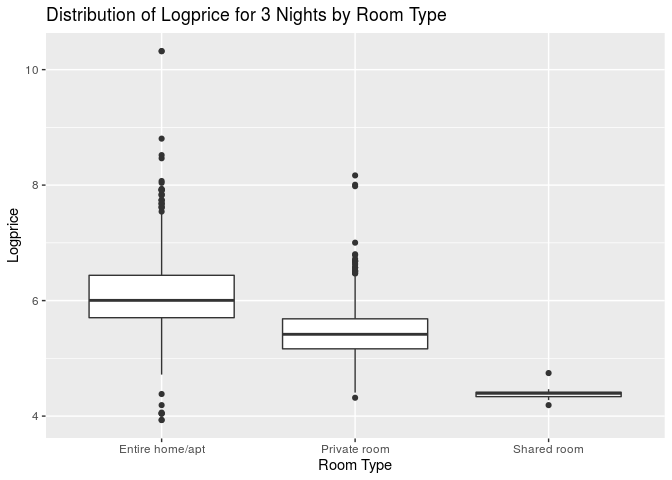
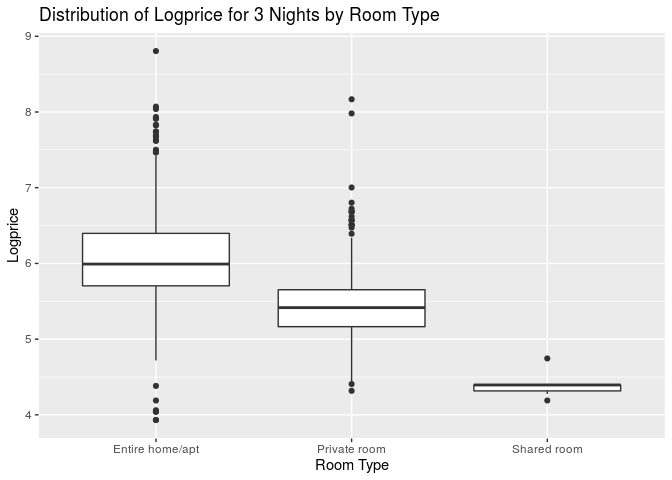
Done with hw 4

diff --git a/hw-04-diagnostics.md b/hw-04-diagnostics.md
@@ -18,6 +18,7 @@ airbnb_mod <- read_csv("data/airbnb_mod.csv")
 
 ``` r
 airbnb_mod <- airbnb_mod %>%
+  filter(!is.na(price_3_nights), !is.na(prop_type_simp), !is.na(room_type), !is.na(number_of_reviews), !is.na(review_scores_rating)) %>%
   mutate(log_price_3 = log(price_3_nights))
 ```
 
@@ -49,25 +50,30 @@ $1.008.
 
 ``` r
 logprice_model_full <- lm(log_price_3 ~ prop_type_simp + number_of_reviews + review_scores_rating + room_type, data = airbnb_mod)
-kable(tidy(logprice_model, conf.int = TRUE, level = 0.95),digits=5)
+kable(tidy(logprice_model_full, conf.int = TRUE, level = 0.95),digits=5)
 ```
 
-| term                        |  estimate | std.error | statistic | p.value |  conf.low | conf.high |
-| :-------------------------- | --------: | --------: | --------: | ------: | --------: | --------: |
-| (Intercept)                 |   5.24423 |   0.35894 |  14.61018 | 0.00000 |   4.54020 |   5.94825 |
-| prop\_type\_simpGuest suite | \-0.20559 |   0.05052 | \-4.06934 | 0.00005 | \-0.30469 | \-0.10650 |
-| prop\_type\_simpHouse       | \-0.05715 |   0.04040 | \-1.41479 | 0.15732 | \-0.13639 |   0.02208 |
-| prop\_type\_simpOther       | \-0.03232 |   0.04546 | \-0.71083 | 0.47729 | \-0.12149 |   0.05685 |
-| number\_of\_reviews         | \-0.00138 |   0.00019 | \-7.28060 | 0.00000 | \-0.00175 | \-0.00101 |
-| review\_scores\_rating      |   0.00809 |   0.00368 |   2.19688 | 0.02817 |   0.00087 |   0.01531 |
+| term                        |  estimate | std.error |  statistic | p.value |  conf.low | conf.high |
+| :-------------------------- | --------: | --------: | ---------: | ------: | --------: | --------: |
+| (Intercept)                 |   5.51289 |   0.29892 |   18.44273 | 0.00000 |   4.92659 |   6.09919 |
+| prop\_type\_simpGuest suite | \-0.14503 |   0.04201 |  \-3.45215 | 0.00057 | \-0.22743 | \-0.06263 |
+| prop\_type\_simpHouse       |   0.27884 |   0.03574 |    7.80083 | 0.00000 |   0.20873 |   0.34895 |
+| prop\_type\_simpOther       |   0.16683 |   0.03850 |    4.33351 | 0.00002 |   0.09132 |   0.24234 |
+| number\_of\_reviews         | \-0.00120 |   0.00016 |  \-7.63618 | 0.00000 | \-0.00151 | \-0.00089 |
+| review\_scores\_rating      |   0.00558 |   0.00307 |    1.81945 | 0.06902 | \-0.00044 |   0.01159 |
+| room\_typePrivate room      | \-0.74494 |   0.02829 | \-26.33320 | 0.00000 | \-0.80042 | \-0.68945 |
+| room\_typeShared room       | \-1.82881 |   0.18891 |  \-9.68082 | 0.00000 | \-2.19933 | \-1.45828 |
 
 logprice-hat = 5.513 - 0.145 \* prop\_type\_simpGuestsuite + 0.279 \*
 prop\_type\_simpHouse + 0.167 \* prop\_type\_simpOther - 0.001 \*
 number\_of\_reviews + 0.006 \* review\_scores\_rating - 0.745 \*
-room\_typePrivateroom - 1.829 \*
-room\_typeSharedroom
+room\_typePrivateroom - 1.829 \* room\_typeSharedroom
 
 ### Question 4
+
+Created a box plot to visualize the distribution of logprice for 3
+nights based on room
+type:
 
 ``` r
 ggplot(data = airbnb_mod, mapping = aes(x = room_type, y = log_price_3)) + geom_boxplot() + labs(title = "Distribution of Logprice for 3 Nights by Room Type", x = "Room Type", y = "Logprice")
@@ -96,10 +102,11 @@ kable(anova(reduced, full), format="markdown", digits = 3)
 |   1668 | 408.084 |  2 |   184.472 | 377.006 |       0 |
 
 The p-value is 0, which less than alpha level 0.05, so we reject the
-null hypothesis, so at least one slope coefficient for room type
-(private or shared) is not equal to 0. At least one coeffecient
-associated with `room_type` is not 0. Therefore, `room_type` is a
-significant predictor of cost for 3 nights.
+null hypothesis, so there is statistically significant evidence that at
+least one slope coefficient for room type (private or shared) is not
+equal to 0. At least one coeffecient associated with `room_type` is not
+0. Therefore, `room_type` is a significant predictor of cost for 3
+nights.
 
 ### Question 5
 
@@ -111,17 +118,17 @@ price_output %>%
   slice(1:5)
 ```
 
-    ## # A tibble: 5 x 14
-    ##   .rownames log_price_3 prop_type_simp number_of_revie… review_scores_r…
-    ##   <chr>           <dbl> <chr>                     <dbl>            <dbl>
-    ## 1 1                5.19 House                       120               96
-    ## 2 2                7.74 Other                        92               95
-    ## 3 3                5.82 Other                       181               88
-    ## 4 4                5.36 House                        48               88
-    ## 5 5                4.36 House                       198               93
-    ## # … with 9 more variables: room_type <chr>, .fitted <dbl>, .se.fit <dbl>,
-    ## #   .resid <dbl>, .hat <dbl>, .sigma <dbl>, .cooksd <dbl>,
-    ## #   .std.resid <dbl>, obs_num <int>
+    ## # A tibble: 5 x 13
+    ##   log_price_3 prop_type_simp number_of_revie… review_scores_r… room_type
+    ##         <dbl> <chr>                     <dbl>            <dbl> <chr>    
+    ## 1        5.19 House                       120               96 Private …
+    ## 2        7.74 Other                        92               95 Entire h…
+    ## 3        5.82 Other                       181               88 Entire h…
+    ## 4        5.36 House                        48               88 Private …
+    ## 5        4.36 House                       198               93 Shared r…
+    ## # … with 8 more variables: .fitted <dbl>, .se.fit <dbl>, .resid <dbl>,
+    ## #   .hat <dbl>, .sigma <dbl>, .cooksd <dbl>, .std.resid <dbl>,
+    ## #   obs_num <int>
 
 ### Question 6
 
@@ -144,27 +151,14 @@ ggplot(data = price_output, aes(x = obs_num,y = .hat)) +
 
 ``` r
 price_output %>%
-  filter(.hat > leverage_threshold)
+  filter(.hat > leverage_threshold) %>%
+  nrow()
 ```
 
-    ## # A tibble: 71 x 14
-    ##    .rownames log_price_3 prop_type_simp number_of_revie… review_scores_r…
-    ##    <chr>           <dbl> <chr>                     <dbl>            <dbl>
-    ##  1 5                4.36 House                       198               93
-    ##  2 8                5.43 Apartment                   415               98
-    ##  3 13               5.57 Guest suite                 433               97
-    ##  4 17               5.72 Other                       306               99
-    ##  5 25               5.09 House                       778               92
-    ##  6 26               6.62 House                       322               94
-    ##  7 28               6.26 Other                         3               80
-    ##  8 33               5.72 Guest suite                 414               97
-    ##  9 34               5.33 House                       388               98
-    ## 10 41               6.14 Other                       394              100
-    ## # … with 61 more rows, and 9 more variables: room_type <chr>,
-    ## #   .fitted <dbl>, .se.fit <dbl>, .resid <dbl>, .hat <dbl>, .sigma <dbl>,
-    ## #   .cooksd <dbl>, .std.resid <dbl>, obs_num <int>
+    ## [1] 62
 
-71 observations are considered high leverage.
+62 observations are considered high leverage since they have leverages
+above the leverage threshold.
 
 ``` r
 ggplot(data = price_output, aes(x = obs_num, y = .cooksd)) + 
@@ -176,11 +170,11 @@ ggplot(data = price_output, aes(x = obs_num, y = .cooksd)) +
 
 ![](hw-04-diagnostics_files/figure-gfm/cooksdistance-1.png)<!-- -->
 
-Based on Cook’s Distance, these points do not have a significant
-influence on model coefficients. Cook’s Distance is the change in
-predicted price when an observation is dropped. None of the observations
-have a Cook’s Distance greater than the threshold of 1, so they do not
-have significant influences on the model coefficients.
+Based on Cook’s Distance, these high leverage points do not have a
+significant influence on model coefficients. Cook’s Distance is the
+change in predicted price when an observation is dropped. None of the
+observations have a Cook’s Distance greater than the threshold of 1, so
+they do not have significant influences on the model coefficients.
 
 ### Question 7
 
@@ -197,35 +191,32 @@ ggplot(data = price_output, aes(x = .fitted,y = .std.resid)) +
 ![](hw-04-diagnostics_files/figure-gfm/std-resid-1.png)<!-- -->
 
 ``` r
-price_output %>% filter(abs(.std.resid) > 2) %>% 
-  select(prop_type_simp, number_of_reviews, review_scores_rating, room_type)
+price_output %>% 
+  filter(abs(.std.resid) > 2) %>%
+  nrow()
 ```
 
-    ## # A tibble: 75 x 4
-    ##    prop_type_simp number_of_reviews review_scores_rating room_type      
-    ##    <chr>                      <dbl>                <dbl> <chr>          
-    ##  1 Other                         92                   95 Entire home/apt
-    ##  2 Other                         53                   96 Entire home/apt
-    ##  3 Other                         52                   95 Entire home/apt
-    ##  4 Other                         29                   98 Entire home/apt
-    ##  5 Guest suite                   73                   87 Entire home/apt
-    ##  6 House                         95                   98 Entire home/apt
-    ##  7 House                         63                   99 Entire home/apt
-    ##  8 Other                         13                   97 Private room   
-    ##  9 House                         33                   99 Entire home/apt
-    ## 10 House                        197                   96 Entire home/apt
-    ## # … with 65 more rows
+    ## [1] 75
 
 75 observations are considered to have standardized residuals with large
 magnitude.
 
 ``` r
-ggplot(data = price_output, mapping = aes(x = .std.resid)) + geom_histogram() + labs(title = "Distribution of Standard Residuals")
+ggplot(data = price_output, mapping = aes(x = .std.resid)) + geom_histogram() + geom_vline(xintercept = -2,color = "red") + geom_vline(xintercept = 2, color = "red") + labs(title = "Distribution of Standard Residuals")
 ```
 
 ![](hw-04-diagnostics_files/figure-gfm/stdresid-hist-1.png)<!-- -->
 
-EXPLANATION
+``` r
+75/nrow(airbnb_mod)
+```
+
+    ## [1] 0.0447494
+
+4.47% of the observations have standard residuals with magnitude \> 2.
+This is not a concern because only 4.5% of the observations are flagged
+as having standard residuals with large magnitude, which is not a
+significant proportion of the total 1676 observations.
 
 ### Question 8
 
@@ -245,6 +236,6 @@ tidy(vif(logprice_model_full))
     ## 7 room_typeShared room       1.02
 
 There are no obvious concerns for multicollinearity because none of the
-variables have VIF’s greater than 10.
+predictor variables have variance inflation factors greater than 10.
 
 ### Overall (do not delete\!)
